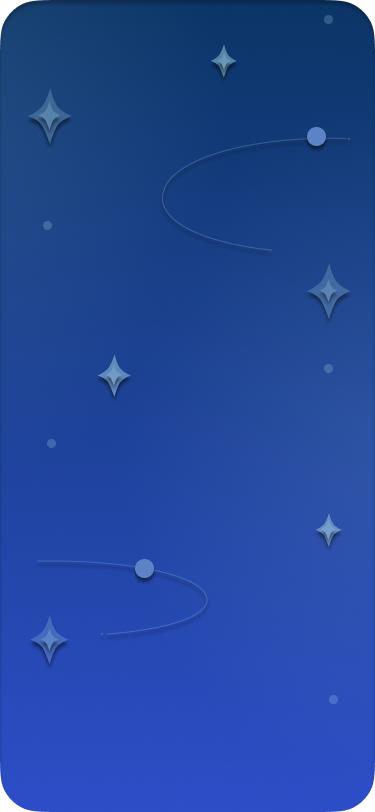
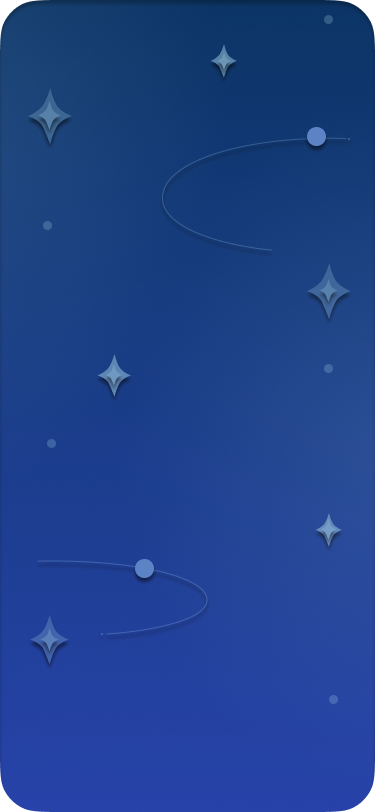
export summary UI, hardcoded

Changed region(s): [[0.0, 0.8005, 1.0, 1.0]]

diff --git a/194w-app/app/tabs/export/summary.js b/194w-app/app/tabs/export/summary.js
@@ -1,0 +1,160 @@
+import React from 'react';
+import {
+  SafeAreaView,
+  View,
+  Text,
+  StyleSheet,
+  TouchableOpacity,
+} from 'react-native';
+import { useRouter } from "expo-router";
+import MaterialCommunityIcons from "@expo/vector-icons/MaterialCommunityIcons";
+import theme from '@/src/theme/theme';
+
+
+
+const MedicalSummaryScreen = () => {
+    const router = useRouter();
+  
+  const currentDate = "Sun Feb 23 8:05 PM";
+  
+  const symptoms = [
+    "I had a runny nose yesterday morning, but by the afternoon, it turned into a dry cough.",
+    "I couldn't sleep last night because the pain got worse when lying down.",
+    "I started coughing four days ago. At first, it was just a dry cough, but since yesterday, I've had mucus and a mild fever.",
+  ];
+
+  const diagnoses = [
+    "OCD",
+    "Arthritis"
+  ];
+
+  const Header = () => (
+    <View style={styles.header}>
+      <TouchableOpacity onPress={() =>router.back()}>
+      <MaterialCommunityIcons size={24} name="arrow-left" color={"white"} />
+      </TouchableOpacity>
+      <View style={styles.headerIcons}>
+        <TouchableOpacity>
+        <MaterialCommunityIcons size={24} name="reload" color={"white"} />
+        </TouchableOpacity>
+        <TouchableOpacity>
+        <MaterialCommunityIcons size={24} name="view-grid" color={"white"} />
+        </TouchableOpacity>
+        <TouchableOpacity>
+        <MaterialCommunityIcons size={24} name="export-variant" color={"white"} />
+        </TouchableOpacity>
+        <TouchableOpacity>
+        <MaterialCommunityIcons size={24} name="bookmark" color={"white"} />
+        </TouchableOpacity>
+      </View>
+    </View>
+  );
+
+  return (
+    <SafeAreaView style={styles.container}>
+      <Header />
+      <View style={styles.content}>
+        <Text style={styles.title}>Complete Summary</Text>
+        <Text style={styles.date}>Generated on {currentDate}</Text>
+        
+        <View style={styles.section}>
+          <Text style={styles.sectionTitle}>
+            What you can bring up during your next appointment
+          </Text>
+          {symptoms.map((symptom, index) => (
+            <View key={index} style={styles.listItem}>
+              <Text style={styles.listNumber}>{index + 1}.</Text>
+              <Text style={styles.listText}>{symptom}</Text>
+            </View>
+          ))}
+        </View>
+
+        <View style={styles.section}>
+          <Text style={styles.sectionTitle}>
+            Reminder of relevant diagnoses
+          </Text>
+          {diagnoses.map((diagnosis, index) => (
+            <View key={index} style={styles.listItem}>
+              <Text style={styles.listNumber}>{index + 1}.</Text>
+              <Text style={styles.listText}>{diagnosis}</Text>
+            </View>
+          ))}
+        </View>
+      </View>
+      
+      <View style={styles.footer}>
+        <Text style={styles.pageNumber}>Page 1/3</Text>
+      </View>
+    </SafeAreaView>
+  );
+};
+
+const styles = StyleSheet.create({
+  container: {
+    flex: 1,
+    backgroundColor: theme.colors.darkBlue,
+  },
+  header: {
+    flexDirection: 'row',
+    justifyContent: 'space-between',
+    alignItems: 'center',
+    padding: 16,
+    backgroundColor: theme.colors.darkBlue,
+  },
+  headerIcons: {
+    flexDirection: 'row',
+    gap: 20,
+  },
+  headerIcon: {
+    color: 'white',
+    fontSize: 20,
+  },
+  content: {
+    flex: 1,
+    padding: 20,
+    backgroundColor: 'white',
+  },
+  title: {
+    fontSize: 24,
+    fontWeight: 'bold',
+    marginBottom: 8,
+  },
+  date: {
+    fontSize: 16,
+    color: '#666',
+    marginBottom: 24,
+  },
+  section: {
+    marginBottom: 24,
+  },
+  sectionTitle: {
+    fontSize: 20,
+    fontWeight: '600',
+    marginBottom: 16,
+  },
+  listItem: {
+    flexDirection: 'row',
+    marginBottom: 12,
+    paddingRight: 16,
+  },
+  listNumber: {
+    width: 24,
+    fontSize: 16,
+  },
+  listText: {
+    flex: 1,
+    fontSize: 16,
+    lineHeight: 22,
+  },
+  footer: {
+    padding: 16,
+    backgroundColor: theme.colors.darkBlue,
+    alignItems: 'center',
+  },
+  pageNumber: {
+    color: 'white',
+    fontSize: 16,
+  },
+});
+
+export default MedicalSummaryScreen;

diff --git a/194w-app/app/tabs/home/confirm.js b/194w-app/app/tabs/home/confirm.js
@@ -3,15 +3,10 @@ import {
   StyleSheet,
   View,
   ImageBackground,
-  Image,
   Text,
-  Dimensions,
-  TextInput,
 } from "react-native";
-import Carousel from "react-native-reanimated-carousel";
 import { useRouter } from "expo-router";
 import Theme from "@/src/theme/theme";
-import Button from "@/src/components/ui/Button";
 
 export default function Page() {
   const router = useRouter();

diff --git a/194w-app/app/tabs/export/_layout.js b/194w-app/app/tabs/export/_layout.js
@@ -14,6 +14,12 @@ export default function Layout() {
           headerShown: false,
         }}
       />
+      <Stack.Screen
+        name="summary"
+        options={{
+          headerShown: false,
+        }}
+      />
     </Stack>
   );
 }

diff --git a/194w-app/src/theme/theme.js b/194w-app/src/theme/theme.js
@@ -20,7 +20,7 @@ export default {
     lightBlue: "#D0F2FF",
     purple: "#9E96DF",
     white: "#FFFFFF",
-    darkPurple: "#2C4DC7",
+    darkPurple: "#2742A9",
     darkBlue: "#0B3464",
 
     // UI States
